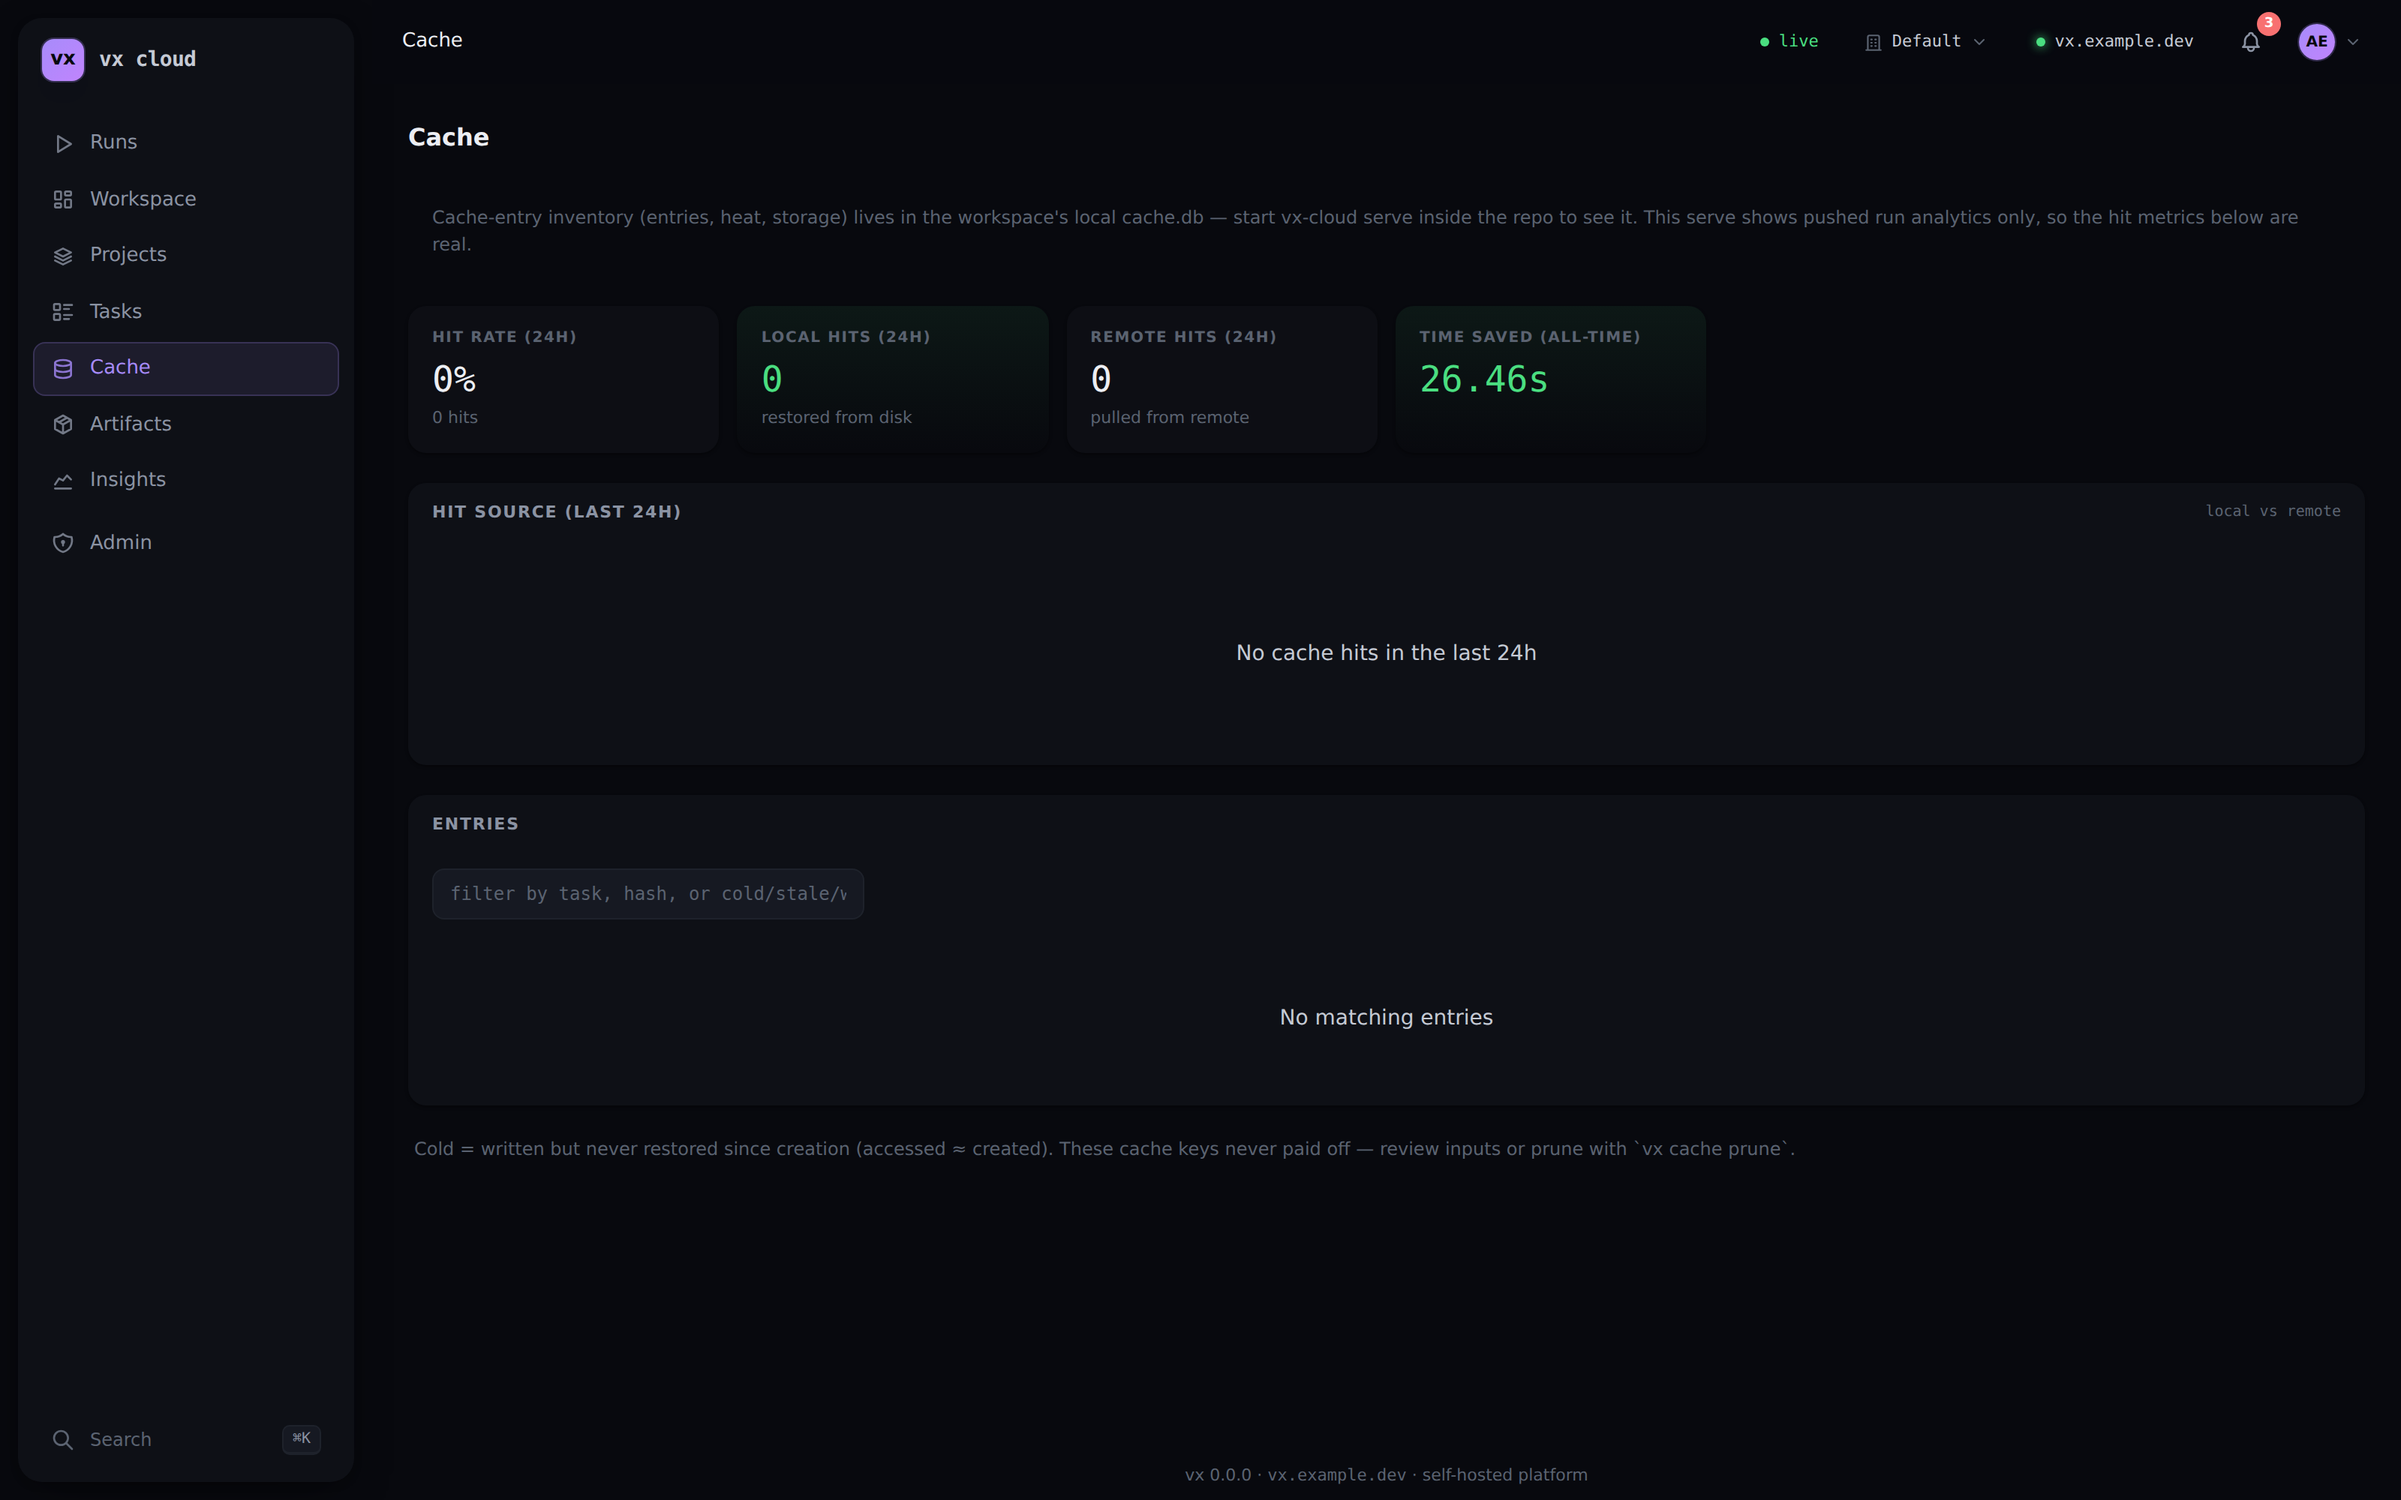
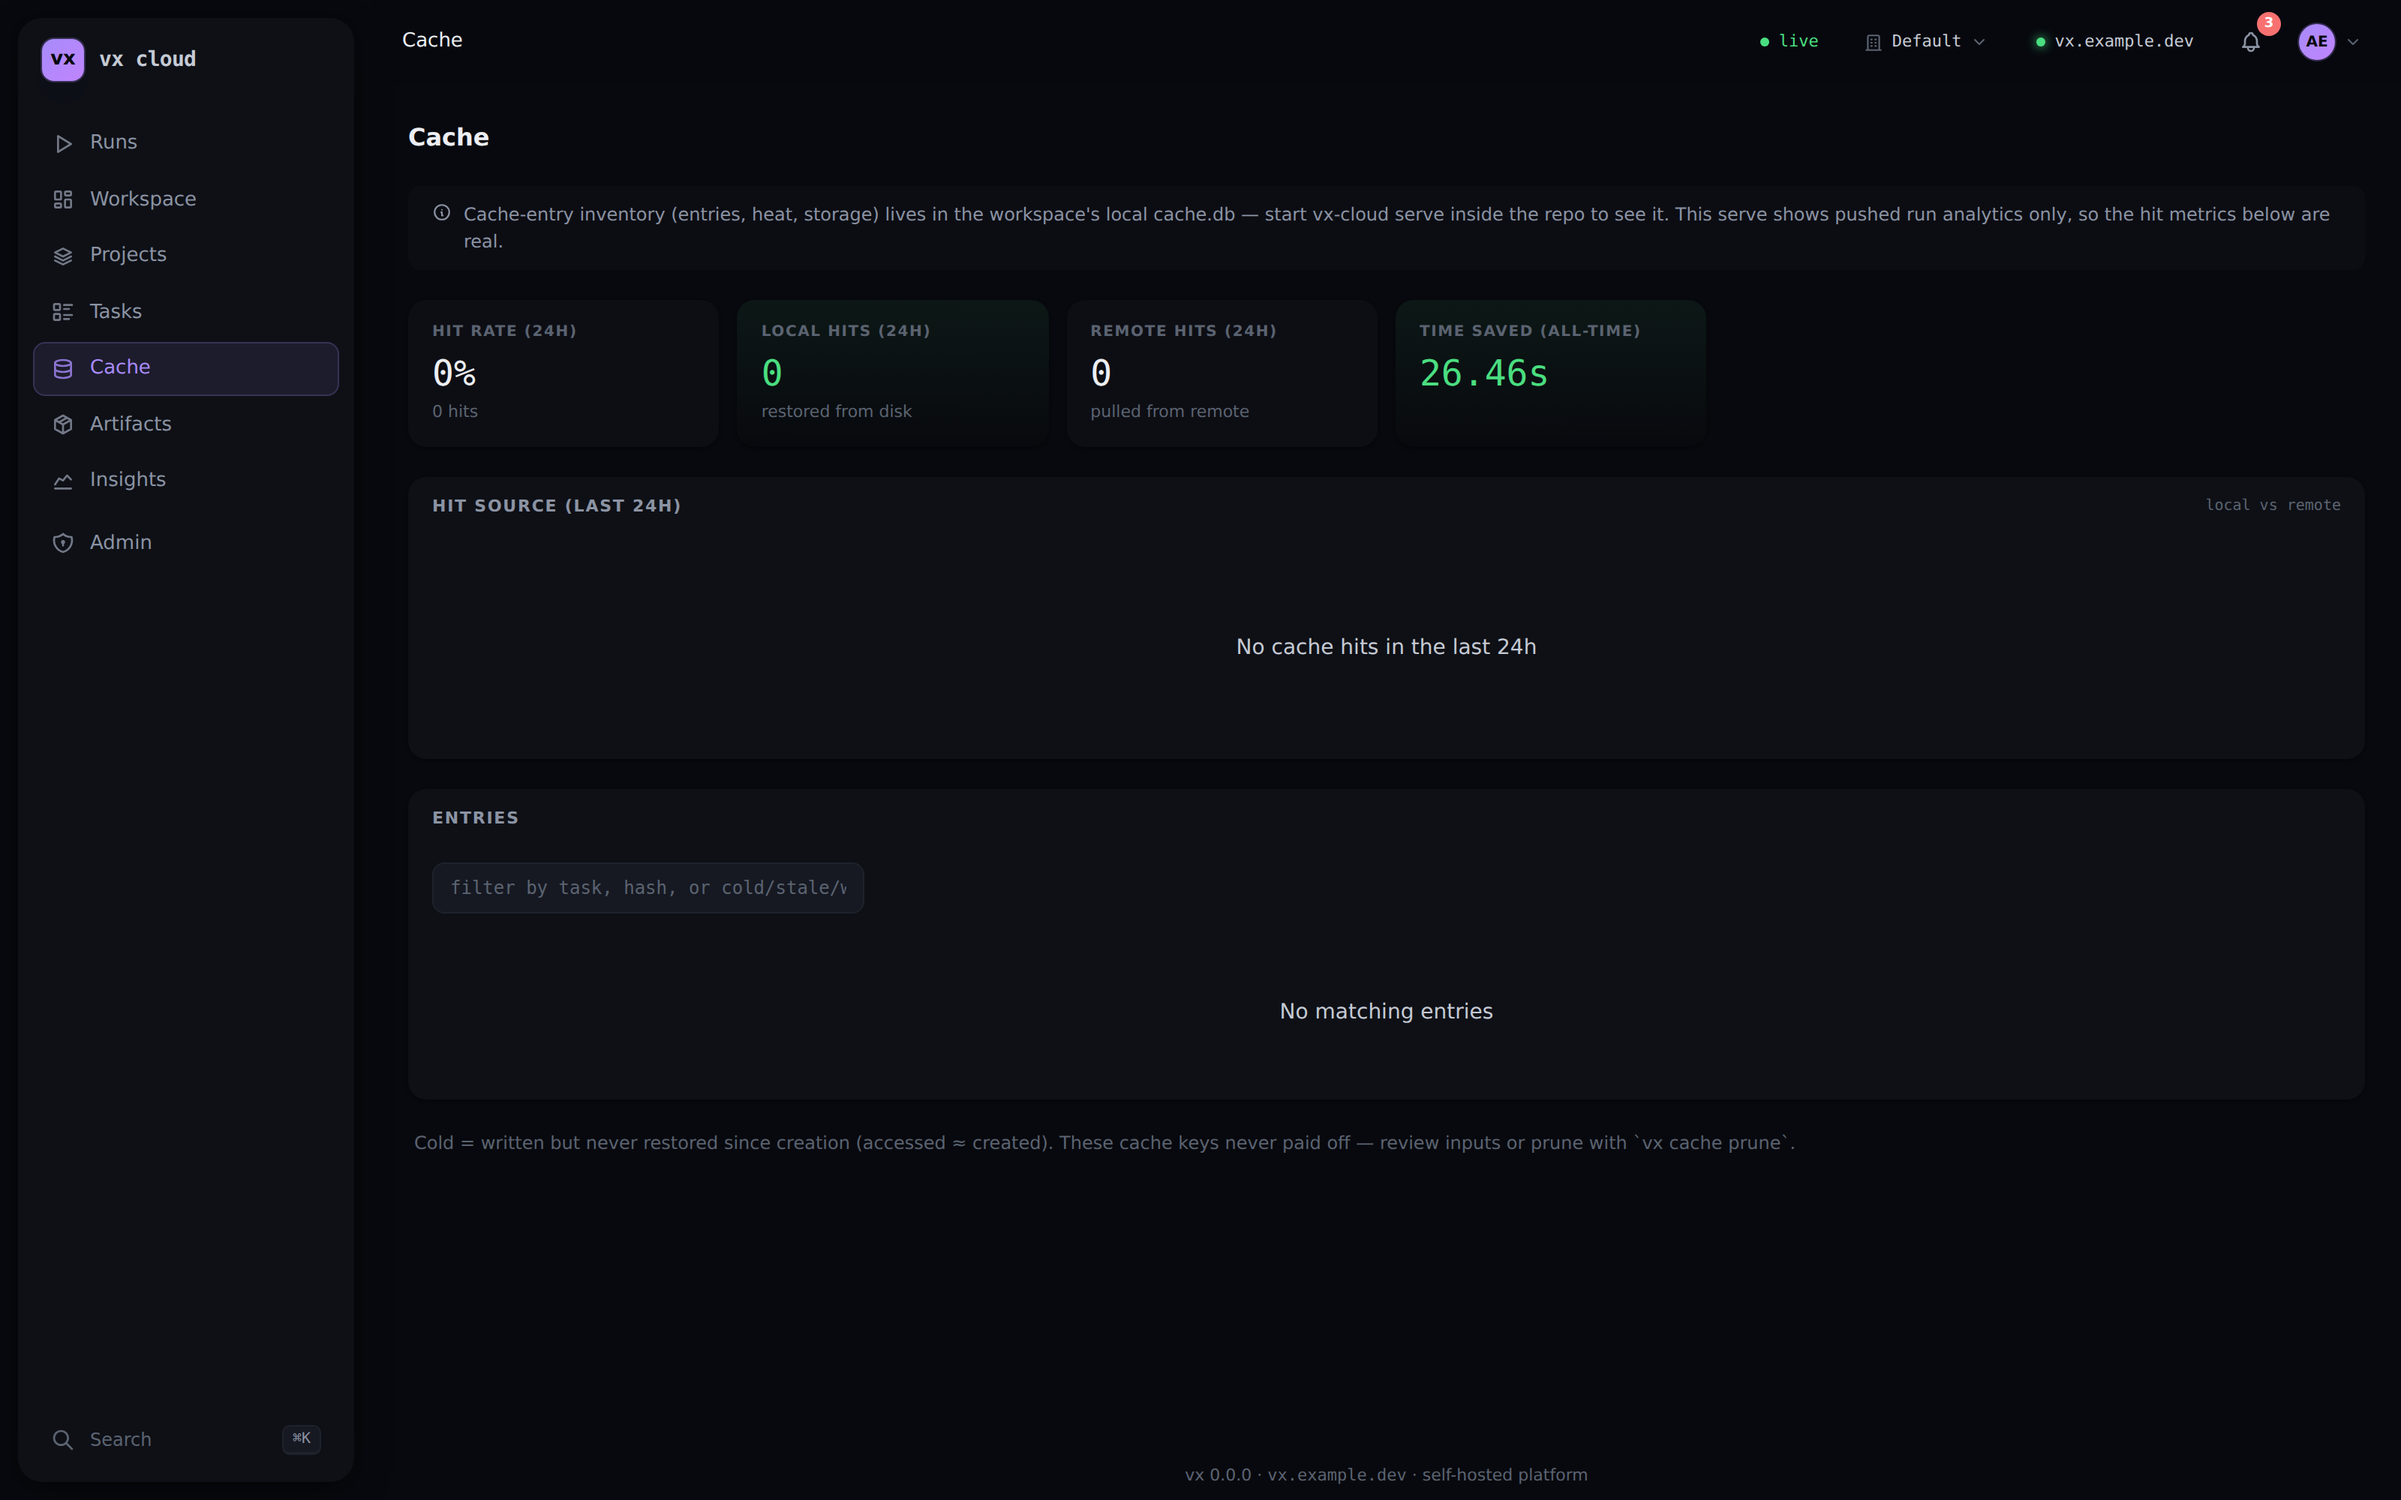
Design-port wave 2: Callout, honest delta bars, ranking axis, status badges
The first wave shipped under the new visual guard, which reported exactly
the three touched pages and left the other six pixel-identical.

- Callout: one banner primitive (warn/info/muted + icon) replacing five
  hand-rolled class strings across four views.
- deltaBar column kind: a signed delta now reads as a diverging bar around
  a shared zero — faster left in green, slower right in red — with a flat
  band (max 5ms, 0.5% of the baseline) so trivial noise renders neutral
  instead of the full danger red every non-zero delta used to get. The
  scale is shared across rows, so +2s and -2s read equal. Reviewing the
  capture caught a regression before it landed: the first cut mapped a
  task present in only one run to a zero delta, making "new" read as "no
  change"; NaN plus a label fallback preserves it.
- Ranking card: rankProjects has computed byHitRate since July with no
  view rendering it. Third axis added, and all three lists gained meters
  pinned to a 0..1 track, so a 3% failure rate renders as 3%.
- status FactField kind renders the shared StatusBadge, so run detail
  stops showing an outcome as bare text.

Baselines refreshed, which refreshes the docs screenshots.

Claude-Session: https://claude.ai/code/session_01RW7aso5j5CrBo7cjyET23D

diff --git a/packages/cloud/ui/src/jr/components.tsx b/packages/cloud/ui/src/jr/components.tsx
@@ -240,8 +240,37 @@ export function Empty(c: C<{ title: string; hint?: string; cmd?: string }>) {
   return <EmptyState title={c.props.title} hint={c.props.hint} cmd={c.props.cmd} />
 }
 
+/**
+ * A tone-carrying banner — the ONE way a view says "heads up". The stale-lock
+ * warning, the ingest-only note and the workspace hints were four hand-rolled
+ * class strings before; drift is impossible once they share a component.
+ */
+const CALLOUT_TONE: Record<string, string> = {
+  warn: 'border-warn/40 bg-warn/5 text-warn',
+  info: 'border-info/40 bg-info/5 text-info',
+  muted: 'border-border bg-surface/60 text-fg-2',
+}
+const CALLOUT_ICON: Record<string, string> = {
+  warn: 'i-tabler-alert-triangle',
+  info: 'i-tabler-info-circle',
+  muted: 'i-tabler-info-circle',
+}
+export function Callout(c: C<{ text: string; tone?: 'warn' | 'info' | 'muted'; icon?: boolean }>) {
+  const tone = () => c.props.tone ?? 'info'
+  return (
+    <div
+      class={`flex items-start gap-2 rounded-lg border px-4 py-2.5 text-[12px] ${CALLOUT_TONE[tone()] ?? CALLOUT_TONE['info']!}`}
+    >
+      <Show when={c.props.icon !== false}>
+        <span class={`${CALLOUT_ICON[tone()] ?? CALLOUT_ICON['info']!} text-[13px] shrink-0 mt-px`} />
+      </Show>
+      <span class="min-w-0">{c.props.text}</span>
+    </div>
+  )
+}
+
 // Key/value facts from one entry object + a declarative field list.
-type FactField = { label: string; key: string; kind?: FormatHint | 'shorthash' | 'shorthash16' | 'text'; mono?: boolean }
+type FactField = { label: string; key: string; kind?: FormatHint | 'shorthash' | 'shorthash16' | 'text' | 'status'; mono?: boolean }
 export function Facts(c: C<{ entry?: Row; fields: FactField[]; commandKey?: string }>) {
   const fmt = (f: FactField) => {
     const v = c.props.entry?.[f.key]
@@ -258,7 +287,12 @@ export function Facts(c: C<{ entry?: Row; fields: FactField[]; commandKey?: stri
           {(f) => (
             <div class="flex gap-3 items-baseline">
               <span class="text-fg-3 text-[10px] uppercase tracking-wider w-20 shrink-0">{f.label}</span>
-              <span class={f.mono || f.kind === 'shorthash' || f.kind === 'shorthash16' ? 'font-mono text-fg-1' : ''}>{fmt(f)}</span>
+              <Show
+                when={f.kind !== 'status'}
+                fallback={<StatusBadge status={String(c.props.entry?.[f.key] ?? '')} />}
+              >
+                <span class={f.mono || f.kind === 'shorthash' || f.kind === 'shorthash16' ? 'font-mono text-fg-1' : ''}>{fmt(f)}</span>
+              </Show>
             </div>
           )}
         </For>
@@ -462,7 +496,7 @@ export function RunViz(c: C<{ rows: readonly RunSummaryRow[]; selectKey?: string
 
 // --- DataTable --------------------------------------------------------------
 
-type CellKind = 'text' | 'mono' | 'muted' | 'faint' | FormatHint | 'cpuPct' | 'status' | 'cache' | 'projtask' | 'bar' | 'dots' | 'shorthash' | 'link' | 'download' | 'pin'
+type CellKind = 'text' | 'mono' | 'muted' | 'faint' | FormatHint | 'cpuPct' | 'status' | 'cache' | 'projtask' | 'bar' | 'deltaBar' | 'dots' | 'shorthash' | 'link' | 'download' | 'pin'
 interface ToneRule {
   gt?: number
   lt?: number
@@ -479,6 +513,8 @@ export interface Column {
   kind?: CellKind
   format?: FormatHint // value format for kind:'bar'
   max?: number // fixed bar-track max (rates pin 1); default = column data max
+  baseKey?: string // kind:'deltaBar' — the magnitude the flat band is relative to
+  labelKey?: string // kind:'deltaBar' — shown when the delta is undefined (new/gone)
   baseTone?: Tone
   tone?: ToneRule
   color?: string // static bar color token
@@ -587,6 +623,43 @@ function renderField(col: Column, row: Row, max: number) {
         </div>
       )
     }
+    case 'deltaBar': {
+      // A signed delta reads as a DIVERGING bar around a shared zero: faster
+      // grows left in green, slower right in red. The flat band matters — a
+      // +7ms wobble used to render in full danger red, which is a lie about
+      // significance, so anything under the band is neutral with no bar.
+      const v = Number(row[col.key])
+      const base = Math.abs(Number(row[col.baseKey ?? col.key])) || 0
+      const flat = Math.max(5, base * 0.005)
+      const scale = col.max ?? max
+      const frac = scale > 0 ? Math.min(1, Math.abs(v) / scale) : 0
+      const neutral = !Number.isFinite(v) || Math.abs(v) < flat
+      const tone: Tone = neutral ? 'faint' : v > 0 ? 'danger' : 'success'
+      return (
+        <div class="flex items-center gap-2 justify-end">
+          <span class={`w-16 text-right ${toneText(tone)}`}>
+            {Number.isFinite(v)
+              ? formatValue(col.format, v)
+              : col.labelKey !== undefined
+                ? String(row[col.labelKey] ?? '—')
+                : '—'}
+          </span>
+          <div class="w-20 flex items-center" aria-hidden="true">
+            <div class="w-1/2 flex justify-end">
+              <Show when={!neutral && v < 0}>
+                <div class="h-1.5 rounded-l-full bg-success" style={{ width: `${frac * 100}%` }} />
+              </Show>
+            </div>
+            <div class="w-px h-2.5 bg-border-strong shrink-0" />
+            <div class="w-1/2">
+              <Show when={!neutral && v > 0}>
+                <div class="h-1.5 rounded-r-full bg-danger" style={{ width: `${frac * 100}%` }} />
+              </Show>
+            </div>
+          </div>
+        </div>
+      )
+    }
     case 'bar': {
       const v = Number(row[col.key])
       const color = col.colorKey
@@ -650,7 +723,16 @@ export function DataTable(
     const m: Record<string, number> = {}
     // col.max pins the track (rates use 1) — auto-max would render the
     // best row as full even at 40%, lying about the absolute level.
-    for (const col of c.props.columns ?? []) if (col.kind === 'bar') m[col.key] = col.max ?? Math.max(1, ...(c.props.rows ?? []).map((r) => Number(r[col.key])))
+    for (const col of c.props.columns ?? []) {
+      if (col.kind === 'bar') {
+        m[col.key] = col.max ?? Math.max(1, ...(c.props.rows ?? []).map((r) => Number(r[col.key])))
+      } else if (col.kind === 'deltaBar') {
+        // Diverging bars share ONE scale so a +2s and a -2s read equal.
+        m[col.key] =
+          col.max ??
+          Math.max(1, ...(c.props.rows ?? []).map((r) => Math.abs(Number(r[col.key])) || 0))
+      }
+    }
     return m
   })
   // Type-aware comparator: numbers numerically, strings via localeCompare,

diff --git a/packages/cloud/ui/src/jr/data.ts b/packages/cloud/ui/src/jr/data.ts
@@ -69,6 +69,10 @@ interface CompareRow {
   bCacheHit: boolean | null
   bDurationMs: number | null
   deltaLabel: string
+  /** Numeric delta + the A-side magnitude it is relative to — the diverging
+   *  bar needs a number, and the flat band needs something to be flat AGAINST. */
+  deltaMs: number
+  baseMs: number
   deltaKind: 'slower' | 'faster' | 'same' | 'new' | 'gone'
   keyChanged: 'changed' | 'same'
 }
@@ -103,6 +107,9 @@ async function compareRows(runId: string): Promise<CompareRow[]> {
       bCacheHit: t.b?.cacheHit ?? null,
       bDurationMs: t.b?.durationMs ?? null,
       deltaLabel,
+      // NaN when a side is missing: 'new'/'only in prev' is not a zero delta.
+      deltaMs: t.a === null || t.b === null ? Number.NaN : (t.durationDeltaMs ?? 0),
+      baseMs: t.a?.durationMs ?? 0,
       deltaKind,
       keyChanged: t.hashChanged ? 'changed' : 'same',
     }

diff --git a/packages/cloud/ui/src/jr/hints.ts b/packages/cloud/ui/src/jr/hints.ts
@@ -14,10 +14,12 @@ import {
   formatHour,
   formatPercent,
   formatRelativeTime,
+  formatSignedDuration,
 } from '../format.ts'
 
 export type FormatHint =
   | 'duration'
+  | 'signedDuration'
   | 'bytes'
   | 'count'
   | 'percent'
@@ -34,6 +36,8 @@ export type FormatHint =
 
 export function formatValue(hint: FormatHint | undefined, v: number): string {
   switch (hint) {
+    case 'signedDuration':
+      return formatSignedDuration(v)
     case 'duration':
       return formatDuration(v)
     case 'bytes':

diff --git a/packages/cloud/ui/src/jr/catalog.ts b/packages/cloud/ui/src/jr/catalog.ts
@@ -20,6 +20,7 @@ export const catalog = defineCatalog(schema, {
     Metric: anyProps(),
     Text: anyProps(),
     Empty: anyProps(),
+    Callout: anyProps(),
     Facts: anyProps(),
     LineChart: anyProps(),
     Treemap: anyProps(),

diff --git a/packages/cloud/ui/src/jr/renderer.tsx b/packages/cloud/ui/src/jr/renderer.tsx
@@ -26,6 +26,7 @@ const { registry } = defineRegistry(catalog, {
     Metric: C.Metric,
     Text: C.Text,
     Empty: C.Empty,
+    Callout: C.Callout,
     Facts: C.Facts,
     LineChart: C.LineChart,
     Treemap: C.Treemap,

diff --git a/CLAUDE.md b/CLAUDE.md
@@ -208,6 +208,34 @@ serving none of them is probably org-analytics scope creep.
 
 ## Decision log
 
+- **2026-07-26**: **Design-port wave 2 — Callout, honest delta bars, the
+  ranking card's missing axis, status-as-badge** (continuing the astryx
+  directives on the shipping UI; the FIRST wave shipped under the new visual
+  guard, which reported exactly the three touched pages and left the other six
+  pixel-identical — the pipeline paying for itself on its first real use).
+  (1) **`Callout`** — one banner primitive (warn/info/muted + icon) replacing
+  five hand-rolled class strings across overview/projects/taskDetail/cache;
+  drift is now impossible. (2) **`deltaBar` column kind** — a signed delta
+  reads as a DIVERGING bar around a shared zero (faster grows left green,
+  slower right red) with a **flat band** (`max(5ms, 0.5% of the A-side)`), so
+  trivial noise renders neutral instead of the full danger red the old
+  dot+text gave every non-zero delta; the diverging scale is shared across
+  rows so +2s and −2s read equal. **A defect the browser review caught before
+  landing:** the first cut mapped a task present in only ONE run to
+  `deltaMs: 0`, so "new" read as "no change" — now NaN + a `labelKey`
+  fallback preserves new/only-in-prev. New `signedDuration` format hint.
+  (3) **Ranking card** — `rankProjects` had computed `byHitRate` since
+  2026-07-15 with NO view rendering it (the decision log claimed three axes
+  shipped; two did). Third axis added, and all three RankLists gained
+  `barFrom` meters — rates ride a 0..1 track so a 3% failure rate renders as
+  3%, never a full bar. (4) **`status` FactField kind** → the shared
+  StatusBadge, so run-detail's selected-task facts stop rendering an outcome
+  as bare text. Gates: fmt/lint 0, cloud 549/0, core 1286/0; baselines
+  refreshed (which refreshed the docs screenshots). **Wave 3 (queued):**
+  PageHeader unification, Card-language unify on the Runs strips, Metric
+  delta chips, Flamegraph label ident hues, deltaBar on movers + the project
+  Δavg column. NO schema/wire/CACHE bump (UI only).
+
 - **2026-07-26**: **Visual-regression snapshots ARE the docs screenshots — one
   pipeline, two jobs** (owner: "Make sure our playwright tests also do
   snapshots for visual regressions and we use those for docs automatically").
